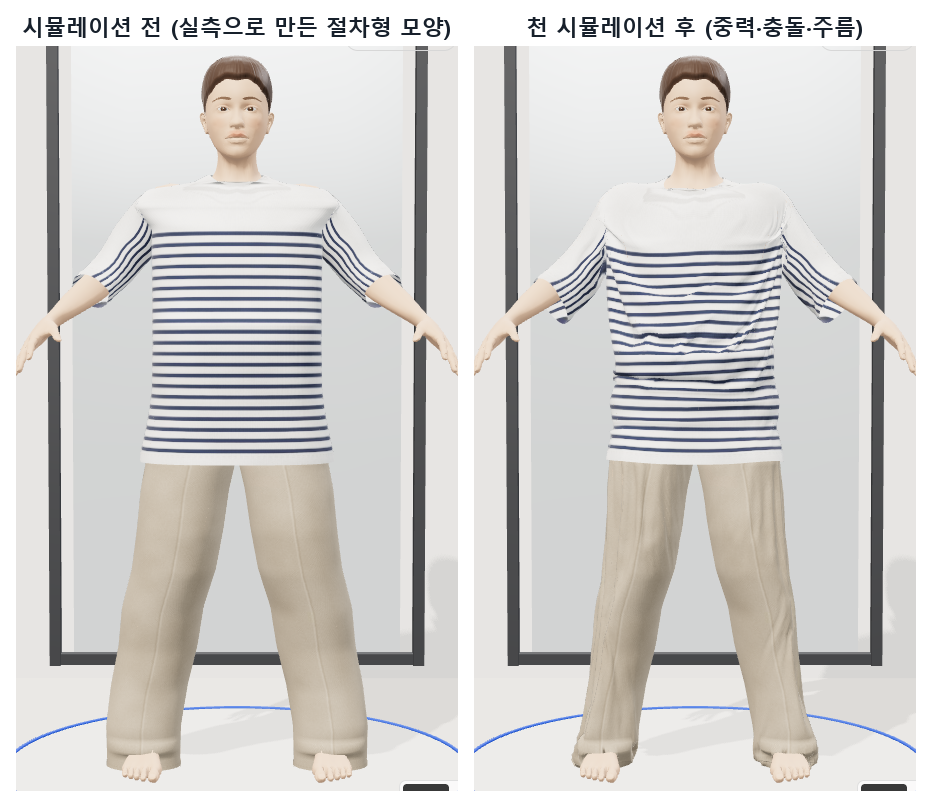
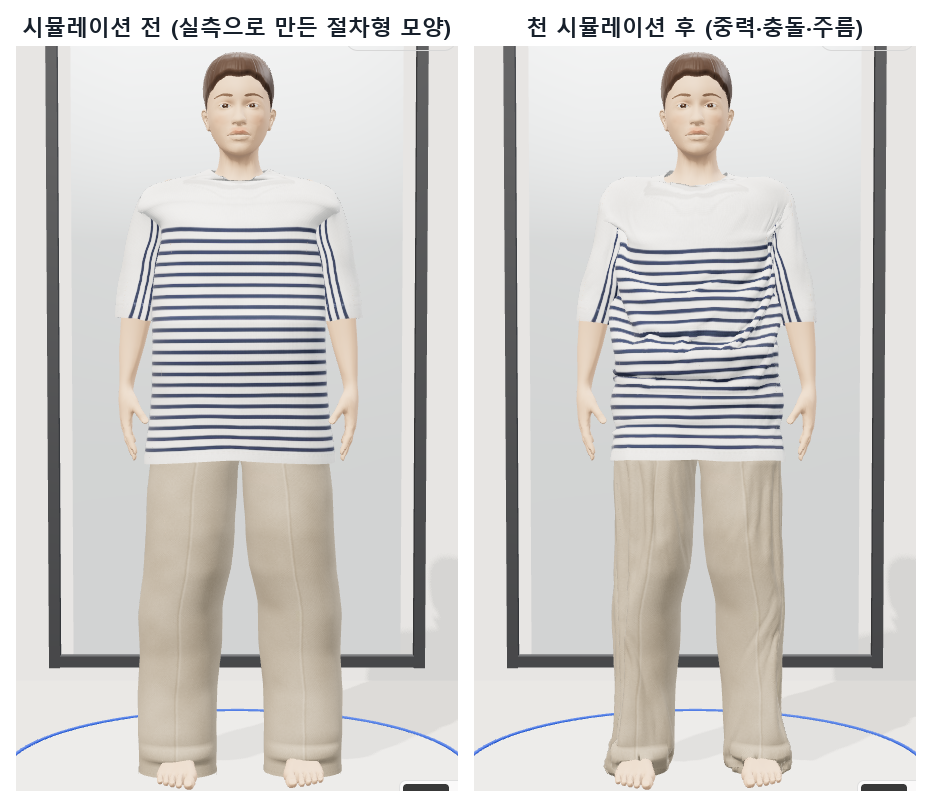
docs: 자세와 움직임 설명, 테스트 개수(176개), 새 자세로 스크린샷 갱신

diff --git a/docs/ARCHITECTURE.md b/docs/ARCHITECTURE.md
@@ -146,7 +146,19 @@ flowchart LR
   - 단발은 귀 위 두개골 높이 아래로 그 반지름보다 안쪽으로 들어가지 않고, 귀를 넘은 뒤 천천히 안으로 떨어지며, 끝을 살짝 안으로 맙니다.
   - 끝 18%는 두께를 줄여 머리선이 피부에 닿습니다. 모자를 쓰면 모자 띠 아래로만 만듭니다.
 - **원단 결** — 니트·평직·능직·데님을 상품 이름과 스타일로 고르고, 절차형 노멀맵(128px, 반복)으로 표면 음영만 바꿉니다. 색과 형태는 그대로입니다.
-- **조명** — 부드러운 그림자(PCF soft), 따뜻한 주광, 뒤쪽 테두리광으로 머리와 어깨 윤곽을 살립니다.
+- **조명** — 부드러운 그림자(PCF, 반경 4), 따뜻한 주광, 뒤쪽 테두리광으로 머리와 어깨 윤곽을 살립니다.
+
+### 2.6 자세와 움직임 — [`lib/wardrobe/rig.ts`](../lib/wardrobe/rig.ts)
+
+**문제** — 옷 치수 계산과 천 시뮬레이션은 팔을 벌린 A 포즈 마네킹으로 해야 정확하지만, 화면의 아바타가 그 자세로 굳어 있으면 마네킹처럼 보입니다.
+
+**계산은 A 포즈, 보이는 것만 자세** — 단면 표, 천 시뮬레이션, 핏 지도는 지금처럼 A 포즈 몸으로 계산합니다. 화면에서는 몸·눈·눈썹·머리카락·입은 옷을 같은 뼈대에 붙여(three.js `SkinnedMesh`) 자세를 줍니다.
+
+- **뼈대** — MakeHuman 기본 뼈대(CC0)의 163개 뼈를 20개로 합쳐 마네킹 GLB에 넣었습니다([`generate_rig.py`](assets/source/generate_rig.py)). 관절 위치는 주변 몸 정점으로 국소 아핀 맞춤을 해서 체형 모프를 따라 움직이고, 체형이 바뀌면 묶음 자세를 다시 잡습니다.
+- **옷이 몸을 따라가게** — 옷 정점마다 가장 가까운 몸 정점 4개의 뼈 가중치를 거리로 섞어 받고(`transferSkin`), 옷 한 벌 안에서 2.5cm 격자에 모아 반경 5cm로 흐립니다(`smoothSkin`). 따로 만든 소매와 몸판도 진동 둘레에서 함께 섞여, 팔을 내려도 겨드랑이와 어깨가 찢어지지 않고 팔을 따라 내려옵니다. 천 시뮬레이션 결과가 오면 처진 위치로 가중치를 다시 정합니다. 팔을 내릴 때 겨드랑이 피부가 옷을 살짝 뚫지 않도록, 옷은 그릴 때만 법선 방향으로 4mm 띄웁니다.
+- **자세** — 위팔은 몸 옆 13°, 아래팔은 바깥 9°·앞 6°로 내리고, 다리는 엉덩이 너비로 모읍니다. 체중을 실은 다리 쪽으로 엉덩이를 옮기며 기울이고, 척추·머리는 반대로 기울여 균형을 잡습니다(콘트라포스토). 낮은 쪽 발목이 바닥에 닿도록 몸 높이를 맞추고, 발은 바닥과 평행하게 둡니다.
+- **움직임** — 11초 주기 체중 이동(양 끝에서 머무는 물결), 4.4초 숨쉬기, 천천히 둘러보는 머리, 가벼운 팔 흔들림을 약 30fps로 줍니다. 탭이 숨겨지면 쉬고, 무대의 버튼으로 끌 수 있으며(이 브라우저에 기억), 저장값이 없으면 기기의 '동작 줄이기' 설정을 따릅니다.
+- **속도** — 옷 한 벌(정점 약 1.5만 개)의 가중치 계산은 약 0.14초입니다(개발 노트북, Node).
 
 ## 3. 사진으로 체형 추정 — [`lib/wardrobe/photo-estimate.ts`](../lib/wardrobe/photo-estimate.ts)
 
@@ -212,7 +224,7 @@ flowchart LR
 
 ## 6. 테스트
 
-`npm test`로 Node.js 테스트 러너가 **170개 테스트**를 돌립니다. GitHub Actions에서 설치 → 테스트 → 타입 검사 → 빌드를 실행합니다. 3D 부분은 화면을 눈으로 보는 대신 실제 마네킹 메시로 **물리적 조건을 숫자로 검사**합니다.
+`npm test`로 Node.js 테스트 러너가 **176개 테스트**를 돌립니다. GitHub Actions에서 설치 → 테스트 → 타입 검사 → 빌드를 실행합니다. 3D 부분은 화면을 눈으로 보는 대신 실제 마네킹 메시로 **물리적 조건을 숫자로 검사**합니다.
 
 | 테스트 | 검사 내용 |
 |---|---|
@@ -222,6 +234,7 @@ flowchart LR
 | [`hair.test.ts`](../lib/wardrobe/hair.test.ts) | 세 가지 체형에서 머리카락이 머리(귀 포함)를 1mm 넘게 띄워 감싸는지 · 앞머리선이 눈썹 위에서 끝나는지 · 모자를 쓰면 모자 띠 아래로만 생기는지 |
 | [`appearance.test.ts`](../lib/wardrobe/appearance.test.ts) | 저장된 아바타 모습이 깨졌을 때 항목별로 기본값으로 돌아가는지 · 마네킹 GLB의 몸 메시가 하나이고 눈·눈썹이 몸과 같은 모프를 갖는지 |
 | [`camera.test.ts`](../lib/wardrobe/camera.test.ts) | 키 140~210cm·화면 비율 0.5~1.8에서 머리끝·발끝이 세로 시야에 들어오는지 · 보통 화면에서 손끝까지 들어오는지 · 제목·버튼이 가리는 비율을 주면 그 사이에 들어오는지 · 175cm 데스크톱은 예전 카메라와 같은지 |
+| [`rig.test.ts`](../lib/wardrobe/rig.test.ts) | 뼈 20개·정점 가중치 합 1 · 관절이 해부학적 높이에 있고 다리 길이 모프를 따르는지 · 네 체형×멈춤/움직임 네 순간에 발바닥이 바닥에 닿고(±1.5cm) 팔·손이 몸통을 뚫지 않으며 두 다리가 가운데를 넘지 않는지 · 옷 정점이 가까운 몸 부위 뼈를 따르는지 · 셔츠 진동 둘레가 벌어지지 않는지 |
 | [`photo-silhouette.test.ts`](../lib/seller/photo-silhouette.test.ts) | 상의·바지 사진 윤곽에서 비율을 재고, 쓸 수 없는 사진을 거부하는지 |
 | [`photo-layout.test.ts`](../lib/wardrobe/photo-layout.test.ts) | 가짜 평면 사진에서 몸판 끝·겨드랑이·소매 네 모서리(±5px)·가랑이·다리 폭·앞 목선을 재는지 · 앞(+x→사진 오른쪽)·뒤(+x→사진 왼쪽)·다리 바깥/안쪽 솔기 대응 · 뒤판 합성에 가슴 프린트가 남지 않고 줄무늬 높이는 유지되는지 |
 | [`photo-garment.test.ts`](../lib/wardrobe/photo-garment.test.ts) | 사진을 입힌 상의·하의의 몸판·소매·다리에 0–1 범위 앞·뒤 사진 좌표가 있고 삼각형이 두 묶음으로 빠짐없이 나뉘는지 · Worker용 조각 구성이 화면 쪽과 정점 수까지 같은지 · 가슴 앞 가운데·옆선·소매단이 사진의 제자리에 가는지 |

diff --git a/docs/FEATURES.md b/docs/FEATURES.md
@@ -82,7 +82,7 @@ npm run build
 npm run evaluate:ads -- --dry-run
 ```
 
-Node.js 22.13 이상. Sites의 portable 실행 프로필과 Vinext/React/TypeScript, Three.js를 사용합니다. 2026-09-29에 Node 22.23에서 저장소 파일만으로 `npm ci` → `npm test`(당시 102개, 2026-11-18 기준 170개) → `npm run typecheck` → `npm run build`가 통과함을 확인했습니다. macOS의 iCloud 동기화 폴더(Documents·Desktop) 안에서는 시스템이 파일을 비워 개발 서버·빌드가 멈출 수 있으니, 저장소를 iCloud 밖에 받아 실행하세요.
+Node.js 22.13 이상. Sites의 portable 실행 프로필과 Vinext/React/TypeScript, Three.js를 사용합니다. 2026-09-29에 Node 22.23에서 저장소 파일만으로 `npm ci` → `npm test`(당시 102개, 2026-11-18 기준 176개) → `npm run typecheck` → `npm run build`가 통과함을 확인했습니다. macOS의 iCloud 동기화 폴더(Documents·Desktop) 안에서는 시스템이 파일을 비워 개발 서버·빌드가 멈출 수 있으니, 저장소를 iCloud 밖에 받아 실행하세요.
 
 AI 생성은 서버 실행 환경에 `OPENAI_API_KEY`를 비밀값으로 설정해야 동작합니다. 키가 없으면 화면에 연결 설정이 필요하다고 표시하고, 예시 문구를 실제 생성 결과처럼 대신 보여주지 않습니다.
 
@@ -108,6 +108,7 @@ node --import ./scripts/sites-env.mjs ./node_modules/wrangler/bin/wrangler.js d1
 - 판매자 상품의 가격·재고·실측·구매 링크 등록, 게시/게시 내리기, 같은 브라우저의 이용자 옷장 연동.
 - 계정 동기화한 게시 매장을 다른 브라우저·기기의 이용자 상점 거리에서도 조회하고 판매자 진열 배치로 입장.
 - MakeHuman CC0 자산 기반 3D 아바타: 회전·확대·시점 전환, 키와 체형 변형. 카메라는 키와 화면 폭에 맞춰 머리부터 발끝까지 담고, 휴대폰처럼 제목·시점 버튼이 가운데를 가리는 화면에서는 그 사이에 맞춘다(`lib/wardrobe/camera.ts`). 받침대와 스튜디오 반사광으로 음영을 다듬음.
+- 자연스러운 자세와 움직임: 치수 계산·천 시뮬레이션은 A 포즈 그대로 하고, 화면에서만 MakeHuman 기본 뼈대(CC0)를 20개로 합친 뼈대로 팔을 내리고 다리를 모은 짝다리 자세를 준다. 몸·눈·머리카락·입은 옷(가까운 몸 정점의 뼈 가중치를 옮겨 옷 안에서 섞음)이 함께 움직이며, 체중 이동·숨쉬기·고개 돌림을 약 30fps로 보여 준다. 무대 버튼으로 끌 수 있고 이 브라우저에 기억하며, 저장값이 없으면 기기의 '동작 줄이기' 설정을 따른다(`lib/wardrobe/rig.ts`).
 - 아바타 모습: 피부색 5종, 머리 모양(짧은 머리·단발·없음), 머리색 3종을 체형 편집에서 고르면 바로 바뀌고 이 브라우저에만 저장. 눈·눈썹·입술·볼을 더한 얼굴, 지금 체형의 머리를 잘라 재서 만드는 머리카락(귀를 감싸고 모자를 쓰면 모자 아래로만), 원단 종류별 결(니트·평직·능직·데님 노멀맵), 부드러운 그림자와 테두리광. 표시용이라 핏 계산과 천 시뮬레이션은 그대로다.
 - 의상은 판매자 실측에서 직접 생성한 절차형 3D: 곡선 실루엣과 파인 목선·카라가 있고 어깨가 몸에 얹히며 소매가 진동 둘레에서 팔 중심선을 따라 이어지는 상의, 엉덩이와 두 다리가 앞·뒤 중심 솔기와 가랑이에서 이어진 한 장의 천에 허리밴드(뒤가 조금 높은 허리선)·벨트 고리·밑단 스티치가 있는 하의, 6패널 솔기와 휘어진 챙의 모자. 원단 물리 시뮬레이션이나 상품 사진 기반 재구성이 아닌 참고 표현이다. 옷 치수는 상품 실측 그대로이고, 아바타 체형이 옷보다 큰 높이만 몸 단면 바깥으로 밀어 몸이 옷을 뚫고 나오지 않게 한다.
 - 옷은 마네킹 GLB를 높이별로 실측한 중심선(몸통의 앞쪽 치우침, A자로 벌어진 다리, 머리 비율)에 맞춰 놓아 몸이 옷을 뚫고 나오지 않음. `lib/wardrobe/mannequin-fit.test.ts`가 마네킹 정점에서 옷 표면으로 광선을 쏴 노출 비율(상의·하의·모자별 허용치)을 검사. 미리 만든 상품 썸네일도 같은 형태로 다시 렌더링.
